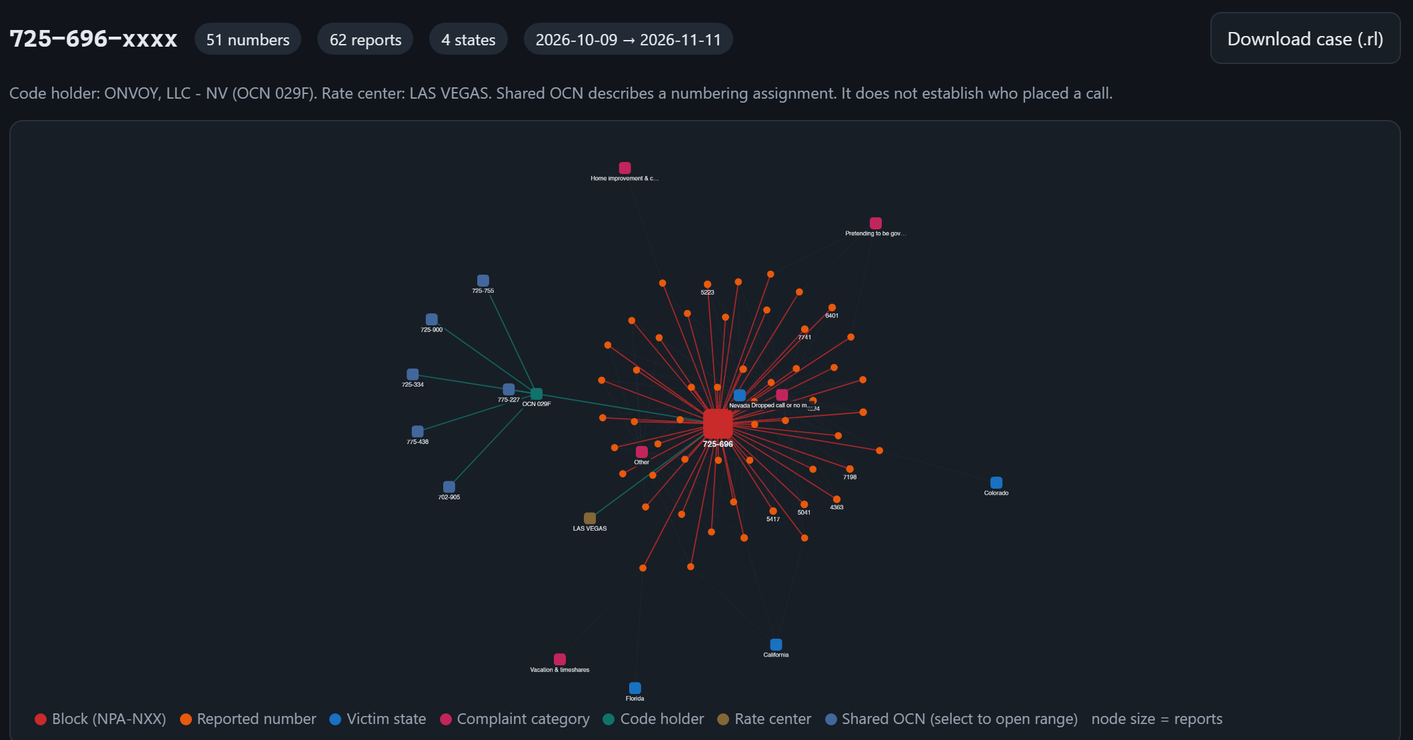
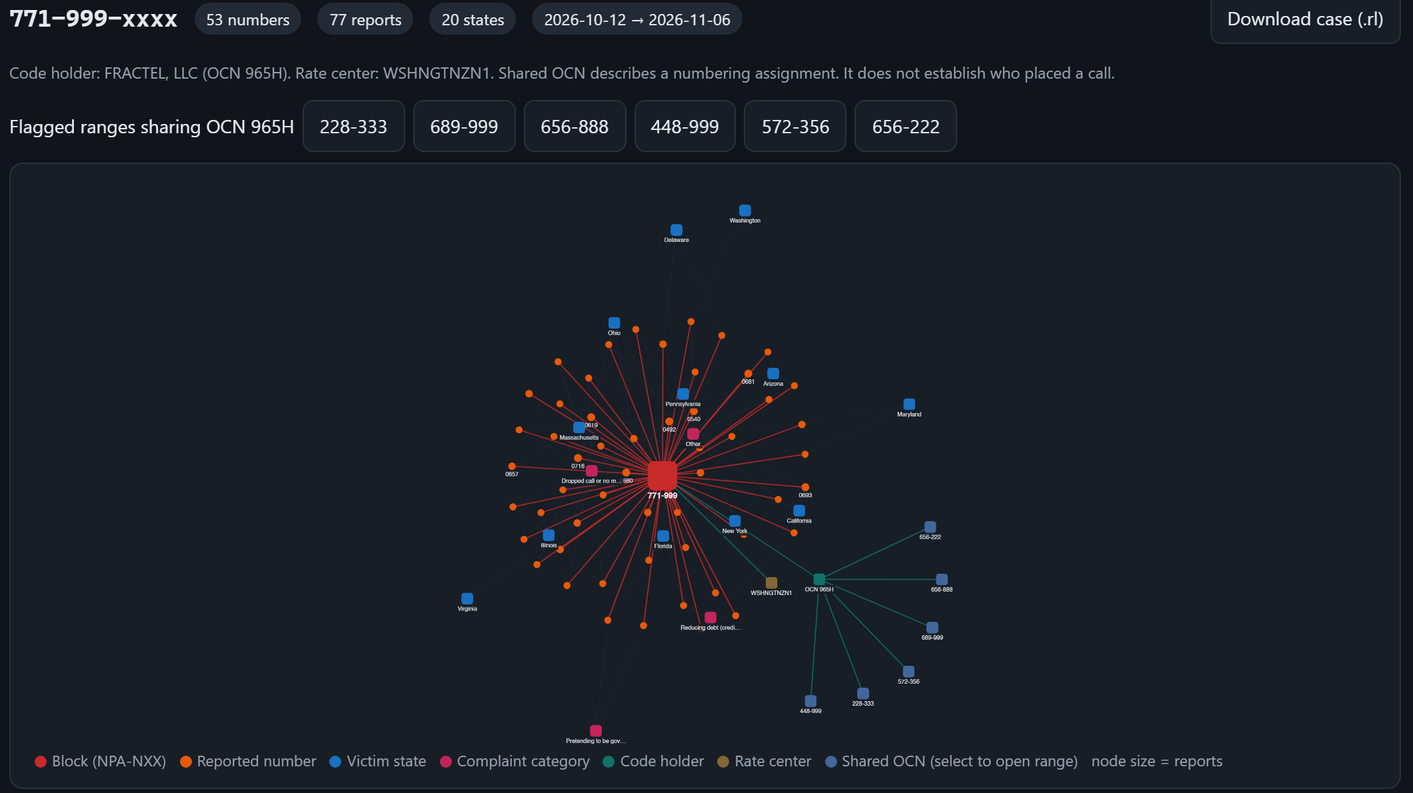
Docs: screenshots of the number-to-range walk in the local app
- app-lookup.png: 771-999-0716 with its prefix holder (FRACTEL, OCN 965H)
  and 1,000-block assignee (ONVOY)
- app-graph.png: range 771-999 opened from that result, with the six
  flagged ranges that share OCN 965H
- EVIDENCE captions and the devpost gallery list updated

diff --git a/docs/EVIDENCE.md b/docs/EVIDENCE.md
@@ -92,7 +92,9 @@ The full database, `data/ftc.rl`, contains the FTC snapshot and the matching US 
 
 - `Block → HELD_BY → Carrier` gives the six-digit code holder by OCN. `Block → IN_RATE_CENTER → RateCenter` gives the rate center.
 - `Number → IN_SUBBLOCK → SubBlock → ASSIGNED_TO → Carrier` gives the assignee of a thousand-number block where the source provides one. A block can be assigned to a different carrier than the code holder.
-![Range 725-696 in the local app: its holder (green) links it to other flagged ranges with the same OCN (blue)](img/app-graph.png)
+![Checking 771-999-0716 in the local app: the prefix holder and the 1,000-block assignee, from NANPA](img/app-lookup.png)
+
+![Range 771-999 opened from that result: its holder (green) links it to other flagged ranges with the same OCN (blue)](img/app-graph.png)
 
 - The local UI can rank OCNs by distinct flagged ranges and traverse from one range through its holder to related ranges. Shared assignment describes numbering administration. Portability and caller-ID spoofing limit attribution, and a rate center describes the numbering resource rather than the caller's location.
 

diff --git a/docs/devpost.md b/docs/devpost.md
@@ -8,7 +8,7 @@
 
 ## Screenshots (upload to the Devpost gallery)
 
-`docs/img/demo-check.png` (number check), `docs/img/demo-early.png` (the 365-826 timeline), `docs/img/holders.png` (who holds flagged ranges), `docs/img/app-graph.png` (a range linked through its holder), `docs/img/architecture.svg` (data flow).
+`docs/img/demo-check.png` (number check), `docs/img/demo-early.png` (the 365-826 timeline), `docs/img/holders.png` (who holds flagged ranges), `docs/img/app-lookup.png` (a number's prefix holder and block assignee), `docs/img/app-graph.png` (its range linked to other flagged ranges through the holder), `docs/img/architecture.svg` (data flow).
 
 ## Inspiration
 
